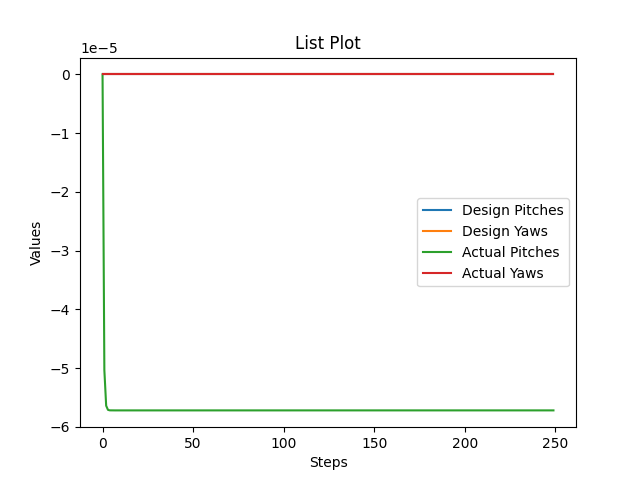
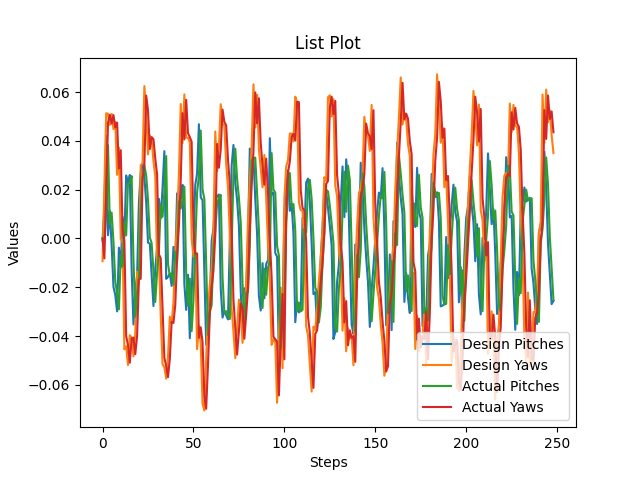
Test - PPO_213 - Agent is able to learn, even faster than the stationary setting, just more unstable. It learns to stabilise the eye rotation to halt on a rough region, then waiting the display hits the eye-ray.

diff --git a/huc/envs/mobile_reading/LocomotionRead.py b/huc/envs/mobile_reading/LocomotionRead.py
@@ -1110,8 +1110,8 @@ class WalkRead(Env):
 
             if params is None:
                 # The test-demo mode
-                self._perturbation_amp_tuning_factor = 0
-                self._perturbation_amp_noise_scale = 0
+                self._perturbation_amp_tuning_factor = 0.5
+                self._perturbation_amp_noise_scale = 0.01
                 self._dwell_steps = int(0.5 * self._action_sample_freq)
                 print(f"The pert amp tuning factor was: {self._perturbation_amp_tuning_factor}, "
                       f"the pert amp noise factor is; {self._perturbation_amp_noise_scale}, "
